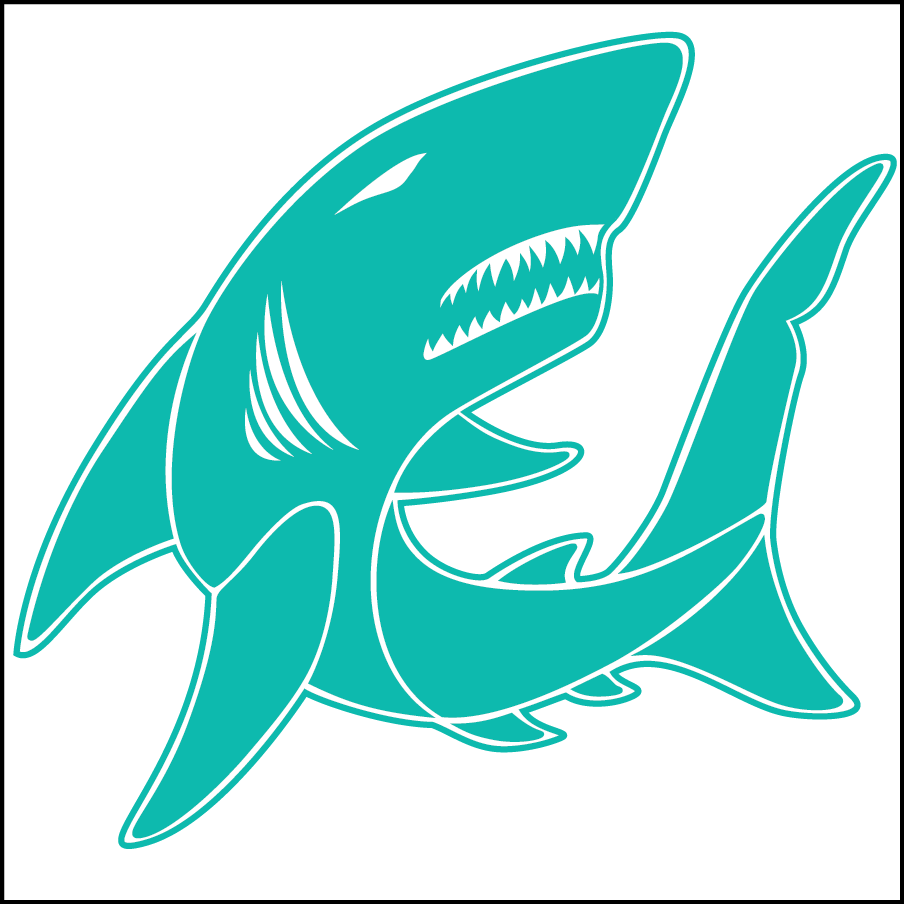
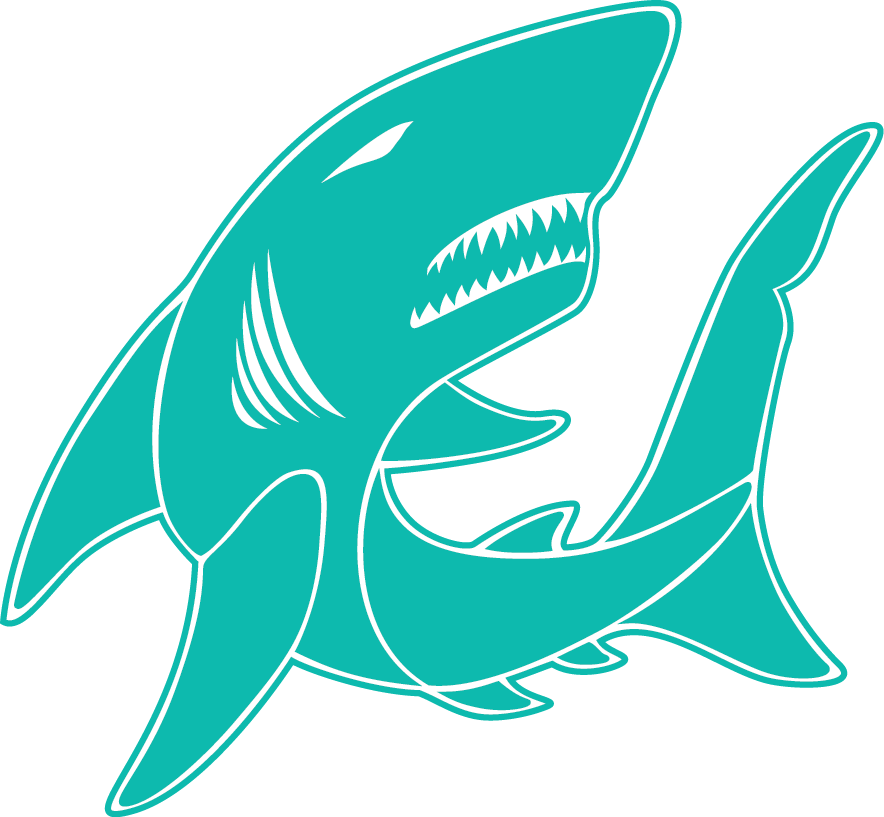
shark class, remove jpg, replace png
new shark, add width
remove unnecessary jpg
replace updated png

Changed region(s): [[0.0, 0.0, 1.0, 1.0], [0.8247, 0.2754, 0.8552, 0.3366]]

diff --git a/404.html b/404.html
@@ -34,7 +34,7 @@ permalink: 404.html
 <main class="unit main grid gutter center unit-xs-1">
 	<h1 class="yotta">Oh noes!</h1>
 	<h2 class="turq">It would seem that this page may have been eaten by a shark*.</h2>
-	<img class="img-flex" src="{{site.baseurl}}/images/shark.png" alt="Shark">
+	<img class="img-flex shark" src="{{site.baseurl}}/images/shark.png" alt="Shark">
 	<p>Click <a href="index.html">here</a> to return home</p>
 </main>
 <footer class="unit grid gutter center unit-xs-1">

diff --git a/css/main.css b/css/main.css
@@ -105,6 +105,10 @@ header {
   margin-top: 2%;
 }
 
+.shark {
+  width: 50%;
+}
+
 /* ----- NAVIGATION ----- */
 
 .nav {
